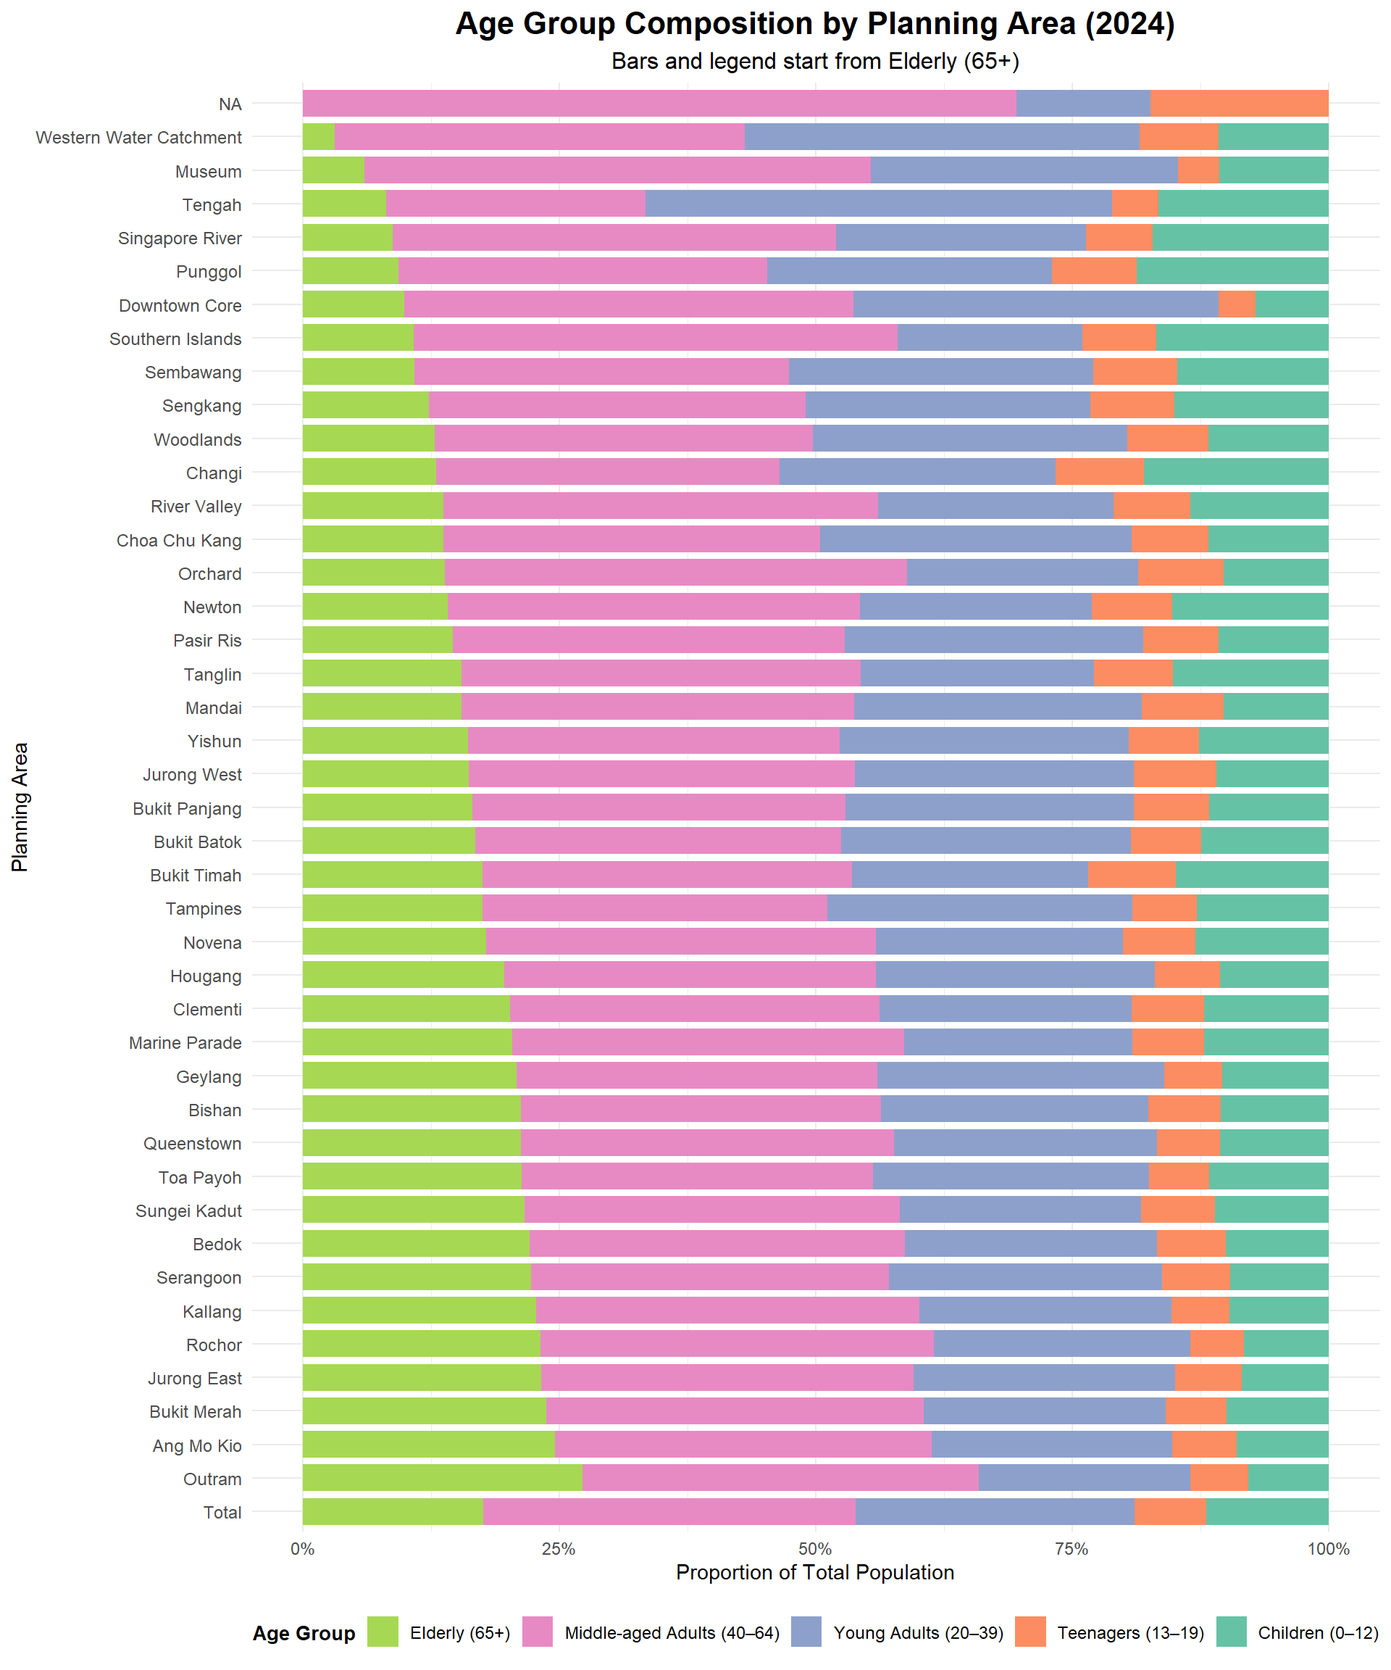
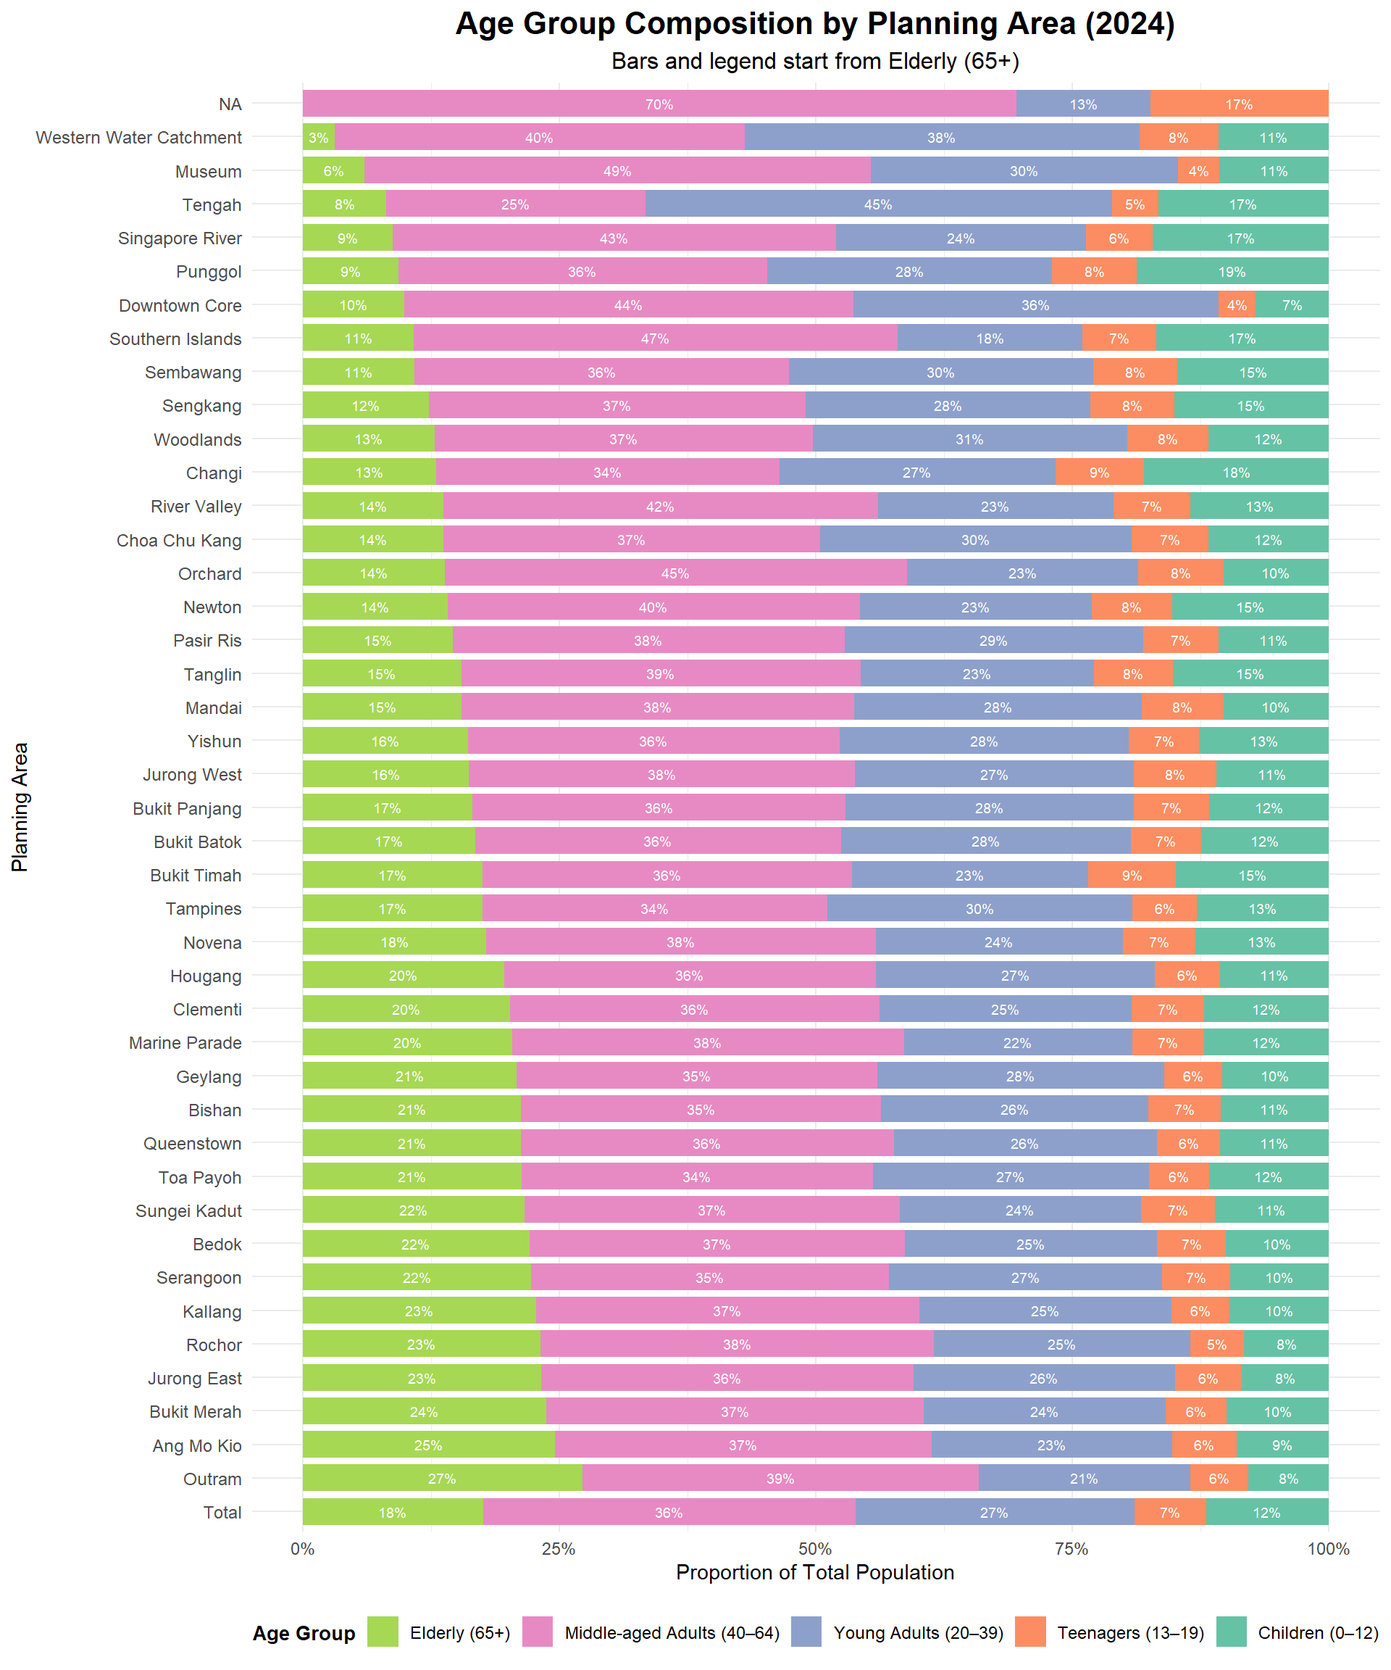
commit visability fix

diff --git a/_site/Take-Home_Ex/Take-Home_Ex01/Take-Home_Ex01.html b/_site/Take-Home_Ex/Take-Home_Ex01/Take-Home_Ex01.html
@@ -203,7 +203,7 @@ pre > code.sourceCode > span > a:first-child::before { text-decoration: underlin
   <ul class="collapse">
   <li><a href="#eda-2-insights" id="toc-eda-2-insights" class="nav-link" data-scroll-target="#eda-2-insights">EDA 2 Insights</a></li>
   </ul></li>
-  <li><a href="#eda-3-top-10-planning-areas-by-total-population-and-elderly-population-age-65" id="toc-eda-3-top-10-planning-areas-by-total-population-and-elderly-population-age-65" class="nav-link" data-scroll-target="#eda-3-top-10-planning-areas-by-total-population-and-elderly-population-age-65">EDA 3: Top 10 Planning Areas by Total Population and Elderly Population (Age 65+)</a>
+  <li><a href="#eda-3-age-group-composition-by-planning-area" id="toc-eda-3-age-group-composition-by-planning-area" class="nav-link" data-scroll-target="#eda-3-age-group-composition-by-planning-area">EDA 3 : Age Group Composition by Planning Area</a>
   <ul class="collapse">
   <li><a href="#eda-3-insights" id="toc-eda-3-insights" class="nav-link" data-scroll-target="#eda-3-insights">EDA 3 Insights</a></li>
   </ul></li>
@@ -486,8 +486,8 @@ Compared to the total population, the <strong>elderly population values are clos
 </ul>
 </section>
 </section>
-<section id="eda-3-top-10-planning-areas-by-total-population-and-elderly-population-age-65" class="level1">
-<h1>EDA 3: Top 10 Planning Areas by Total Population and Elderly Population (Age 65+)</h1>
+<section id="eda-3-age-group-composition-by-planning-area" class="level1">
+<h1>EDA 3 : Age Group Composition by Planning Area</h1>
 <div class="cell">
 <div class="sourceCode cell-code" id="cb5"><pre class="sourceCode r code-with-copy"><code class="sourceCode r"><span id="cb5-1"><a href="#cb5-1" aria-hidden="true" tabindex="-1"></a>age_levels <span class="ot">&lt;-</span> <span class="fu">c</span>(<span class="st">"Elderly (65+)"</span>, <span class="st">"Middle-aged Adults (40–64)"</span>,</span>
 <span id="cb5-2"><a href="#cb5-2" aria-hidden="true" tabindex="-1"></a>                <span class="st">"Young Adults (20–39)"</span>, <span class="st">"Teenagers (13–19)"</span>,</span>
@@ -515,48 +515,52 @@ Compared to the total population, the <strong>elderly population values are clos
 <span id="cb5-24"><a href="#cb5-24" aria-hidden="true" tabindex="-1"></a>  <span class="fu">summarise</span>(<span class="at">Population =</span> <span class="fu">sum</span>(Population), <span class="at">.groups =</span> <span class="st">"drop"</span>)</span>
 <span id="cb5-25"><a href="#cb5-25" aria-hidden="true" tabindex="-1"></a></span>
 <span id="cb5-26"><a href="#cb5-26" aria-hidden="true" tabindex="-1"></a>pop_percent <span class="ot">&lt;-</span> pop_grouped <span class="sc">%&gt;%</span></span>
-<span id="cb5-27"><a href="#cb5-27" aria-hidden="true" tabindex="-1"></a>  <span class="fu">group_by</span>(<span class="st">`</span><span class="at">Planning Area</span><span class="st">`</span>) <span class="sc">%&gt;%</span></span>
-<span id="cb5-28"><a href="#cb5-28" aria-hidden="true" tabindex="-1"></a>  <span class="fu">mutate</span>(<span class="at">Total =</span> <span class="fu">sum</span>(Population),</span>
-<span id="cb5-29"><a href="#cb5-29" aria-hidden="true" tabindex="-1"></a>         <span class="at">Share =</span> Population <span class="sc">/</span> Total) <span class="sc">%&gt;%</span></span>
-<span id="cb5-30"><a href="#cb5-30" aria-hidden="true" tabindex="-1"></a>  <span class="fu">ungroup</span>() <span class="sc">%&gt;%</span></span>
-<span id="cb5-31"><a href="#cb5-31" aria-hidden="true" tabindex="-1"></a>  <span class="fu">filter</span>(<span class="sc">!</span><span class="fu">is.na</span>(<span class="st">`</span><span class="at">Planning Area</span><span class="st">`</span>), <span class="st">`</span><span class="at">Planning Area</span><span class="st">`</span> <span class="sc">!=</span> <span class="st">"NA"</span>)</span>
-<span id="cb5-32"><a href="#cb5-32" aria-hidden="true" tabindex="-1"></a></span>
-<span id="cb5-33"><a href="#cb5-33" aria-hidden="true" tabindex="-1"></a>ordering <span class="ot">&lt;-</span> pop_percent <span class="sc">%&gt;%</span></span>
-<span id="cb5-34"><a href="#cb5-34" aria-hidden="true" tabindex="-1"></a>  <span class="fu">filter</span>(Age_Group <span class="sc">==</span> <span class="st">"Elderly (65+)"</span>, <span class="st">`</span><span class="at">Planning Area</span><span class="st">`</span> <span class="sc">!=</span> <span class="st">"Total"</span>) <span class="sc">%&gt;%</span></span>
-<span id="cb5-35"><a href="#cb5-35" aria-hidden="true" tabindex="-1"></a>  <span class="fu">arrange</span>(<span class="fu">desc</span>(Share)) <span class="sc">%&gt;%</span></span>
-<span id="cb5-36"><a href="#cb5-36" aria-hidden="true" tabindex="-1"></a>  <span class="fu">pull</span>(<span class="st">`</span><span class="at">Planning Area</span><span class="st">`</span>)</span>
-<span id="cb5-37"><a href="#cb5-37" aria-hidden="true" tabindex="-1"></a></span>
-<span id="cb5-38"><a href="#cb5-38" aria-hidden="true" tabindex="-1"></a>pop_percent<span class="sc">$</span><span class="st">`</span><span class="at">Planning Area</span><span class="st">`</span> <span class="ot">&lt;-</span> <span class="fu">factor</span>(</span>
-<span id="cb5-39"><a href="#cb5-39" aria-hidden="true" tabindex="-1"></a>  pop_percent<span class="sc">$</span><span class="st">`</span><span class="at">Planning Area</span><span class="st">`</span>,</span>
-<span id="cb5-40"><a href="#cb5-40" aria-hidden="true" tabindex="-1"></a>  <span class="at">levels =</span> <span class="fu">c</span>(<span class="st">"Total"</span>, ordering)</span>
-<span id="cb5-41"><a href="#cb5-41" aria-hidden="true" tabindex="-1"></a>)</span>
-<span id="cb5-42"><a href="#cb5-42" aria-hidden="true" tabindex="-1"></a></span>
-<span id="cb5-43"><a href="#cb5-43" aria-hidden="true" tabindex="-1"></a>pop_percent<span class="sc">$</span>Age_Group <span class="ot">&lt;-</span> <span class="fu">factor</span>(pop_percent<span class="sc">$</span>Age_Group, <span class="at">levels =</span> <span class="fu">rev</span>(age_levels))</span>
-<span id="cb5-44"><a href="#cb5-44" aria-hidden="true" tabindex="-1"></a></span>
-<span id="cb5-45"><a href="#cb5-45" aria-hidden="true" tabindex="-1"></a><span class="fu">ggplot</span>(pop_percent, <span class="fu">aes</span>(<span class="at">x =</span> <span class="st">`</span><span class="at">Planning Area</span><span class="st">`</span>, <span class="at">y =</span> Share, <span class="at">fill =</span> Age_Group)) <span class="sc">+</span></span>
-<span id="cb5-46"><a href="#cb5-46" aria-hidden="true" tabindex="-1"></a>  <span class="fu">geom_col</span>(<span class="at">width =</span> <span class="fl">0.8</span>) <span class="sc">+</span></span>
-<span id="cb5-47"><a href="#cb5-47" aria-hidden="true" tabindex="-1"></a>  <span class="fu">scale_y_continuous</span>(<span class="at">labels =</span> <span class="fu">percent_format</span>(<span class="at">accuracy =</span> <span class="dv">1</span>)) <span class="sc">+</span></span>
-<span id="cb5-48"><a href="#cb5-48" aria-hidden="true" tabindex="-1"></a>  <span class="fu">scale_fill_manual</span>(</span>
-<span id="cb5-49"><a href="#cb5-49" aria-hidden="true" tabindex="-1"></a>    <span class="at">values =</span>(age_colors),</span>
-<span id="cb5-50"><a href="#cb5-50" aria-hidden="true" tabindex="-1"></a>    <span class="at">breaks =</span> (age_levels)</span>
-<span id="cb5-51"><a href="#cb5-51" aria-hidden="true" tabindex="-1"></a>  ) <span class="sc">+</span></span>
-<span id="cb5-52"><a href="#cb5-52" aria-hidden="true" tabindex="-1"></a>  <span class="fu">coord_flip</span>() <span class="sc">+</span></span>
-<span id="cb5-53"><a href="#cb5-53" aria-hidden="true" tabindex="-1"></a>  <span class="fu">labs</span>(</span>
-<span id="cb5-54"><a href="#cb5-54" aria-hidden="true" tabindex="-1"></a>    <span class="at">title =</span> <span class="st">"Age Group Composition by Planning Area (2024)"</span>,</span>
-<span id="cb5-55"><a href="#cb5-55" aria-hidden="true" tabindex="-1"></a>    <span class="at">subtitle =</span> <span class="st">"Bars and legend start from Elderly (65+)"</span>,</span>
-<span id="cb5-56"><a href="#cb5-56" aria-hidden="true" tabindex="-1"></a>    <span class="at">x =</span> <span class="st">"Planning Area"</span>,</span>
-<span id="cb5-57"><a href="#cb5-57" aria-hidden="true" tabindex="-1"></a>    <span class="at">y =</span> <span class="st">"Proportion of Total Population"</span>,</span>
-<span id="cb5-58"><a href="#cb5-58" aria-hidden="true" tabindex="-1"></a>    <span class="at">fill =</span> <span class="st">"Age Group"</span></span>
-<span id="cb5-59"><a href="#cb5-59" aria-hidden="true" tabindex="-1"></a>  ) <span class="sc">+</span></span>
-<span id="cb5-60"><a href="#cb5-60" aria-hidden="true" tabindex="-1"></a>  <span class="fu">theme_minimal</span>(<span class="at">base_family =</span> <span class="st">"Helvetica"</span>) <span class="sc">+</span></span>
-<span id="cb5-61"><a href="#cb5-61" aria-hidden="true" tabindex="-1"></a>  <span class="fu">theme</span>(</span>
-<span id="cb5-62"><a href="#cb5-62" aria-hidden="true" tabindex="-1"></a>    <span class="at">plot.title =</span> <span class="fu">element_text</span>(<span class="at">face =</span> <span class="st">"bold"</span>, <span class="at">size =</span> <span class="dv">16</span>, <span class="at">hjust =</span> <span class="fl">0.5</span>),</span>
-<span id="cb5-63"><a href="#cb5-63" aria-hidden="true" tabindex="-1"></a>    <span class="at">plot.subtitle =</span> <span class="fu">element_text</span>(<span class="at">size =</span> <span class="dv">12</span>, <span class="at">hjust =</span> <span class="fl">0.5</span>),</span>
-<span id="cb5-64"><a href="#cb5-64" aria-hidden="true" tabindex="-1"></a>    <span class="at">legend.position =</span> <span class="st">"bottom"</span>,</span>
-<span id="cb5-65"><a href="#cb5-65" aria-hidden="true" tabindex="-1"></a>    <span class="at">legend.title =</span> <span class="fu">element_text</span>(<span class="at">size =</span> <span class="dv">10</span>, <span class="at">face =</span> <span class="st">"bold"</span>),</span>
-<span id="cb5-66"><a href="#cb5-66" aria-hidden="true" tabindex="-1"></a>    <span class="at">legend.text =</span> <span class="fu">element_text</span>(<span class="at">size =</span> <span class="dv">9</span>),</span>
-<span id="cb5-67"><a href="#cb5-67" aria-hidden="true" tabindex="-1"></a>    <span class="at">axis.text =</span> <span class="fu">element_text</span>(<span class="at">size =</span> <span class="dv">9</span>)</span>
-<span id="cb5-68"><a href="#cb5-68" aria-hidden="true" tabindex="-1"></a>  )</span></code><button title="Copy to Clipboard" class="code-copy-button"><i class="bi"></i></button></pre></div>
+<span id="cb5-27"><a href="#cb5-27" aria-hidden="true" tabindex="-1"></a>  <span class="fu">mutate</span>(<span class="st">`</span><span class="at">Planning Area</span><span class="st">`</span> <span class="ot">=</span> <span class="fu">trimws</span>(<span class="st">`</span><span class="at">Planning Area</span><span class="st">`</span>)) <span class="sc">%&gt;%</span></span>
+<span id="cb5-28"><a href="#cb5-28" aria-hidden="true" tabindex="-1"></a>  <span class="fu">filter</span>(<span class="sc">!</span><span class="fu">is.na</span>(<span class="st">`</span><span class="at">Planning Area</span><span class="st">`</span>), <span class="st">`</span><span class="at">Planning Area</span><span class="st">`</span> <span class="sc">!=</span> <span class="st">""</span>, <span class="fu">toupper</span>(<span class="st">`</span><span class="at">Planning Area</span><span class="st">`</span>) <span class="sc">!=</span> <span class="st">"NA"</span>) <span class="sc">%&gt;%</span></span>
+<span id="cb5-29"><a href="#cb5-29" aria-hidden="true" tabindex="-1"></a>  <span class="fu">group_by</span>(<span class="st">`</span><span class="at">Planning Area</span><span class="st">`</span>) <span class="sc">%&gt;%</span></span>
+<span id="cb5-30"><a href="#cb5-30" aria-hidden="true" tabindex="-1"></a>  <span class="fu">mutate</span>(<span class="at">Total =</span> <span class="fu">sum</span>(Population),</span>
+<span id="cb5-31"><a href="#cb5-31" aria-hidden="true" tabindex="-1"></a>         <span class="at">Share =</span> Population <span class="sc">/</span> Total) <span class="sc">%&gt;%</span></span>
+<span id="cb5-32"><a href="#cb5-32" aria-hidden="true" tabindex="-1"></a>  <span class="fu">ungroup</span>()</span>
+<span id="cb5-33"><a href="#cb5-33" aria-hidden="true" tabindex="-1"></a></span>
+<span id="cb5-34"><a href="#cb5-34" aria-hidden="true" tabindex="-1"></a>ordering <span class="ot">&lt;-</span> pop_percent <span class="sc">%&gt;%</span></span>
+<span id="cb5-35"><a href="#cb5-35" aria-hidden="true" tabindex="-1"></a>  <span class="fu">filter</span>(Age_Group <span class="sc">==</span> <span class="st">"Elderly (65+)"</span>, <span class="st">`</span><span class="at">Planning Area</span><span class="st">`</span> <span class="sc">!=</span> <span class="st">"Total"</span>) <span class="sc">%&gt;%</span></span>
+<span id="cb5-36"><a href="#cb5-36" aria-hidden="true" tabindex="-1"></a>  <span class="fu">arrange</span>(<span class="fu">desc</span>(Share)) <span class="sc">%&gt;%</span></span>
+<span id="cb5-37"><a href="#cb5-37" aria-hidden="true" tabindex="-1"></a>  <span class="fu">pull</span>(<span class="st">`</span><span class="at">Planning Area</span><span class="st">`</span>)</span>
+<span id="cb5-38"><a href="#cb5-38" aria-hidden="true" tabindex="-1"></a></span>
+<span id="cb5-39"><a href="#cb5-39" aria-hidden="true" tabindex="-1"></a>pop_percent<span class="sc">$</span><span class="st">`</span><span class="at">Planning Area</span><span class="st">`</span> <span class="ot">&lt;-</span> <span class="fu">factor</span>(</span>
+<span id="cb5-40"><a href="#cb5-40" aria-hidden="true" tabindex="-1"></a>  pop_percent<span class="sc">$</span><span class="st">`</span><span class="at">Planning Area</span><span class="st">`</span>,</span>
+<span id="cb5-41"><a href="#cb5-41" aria-hidden="true" tabindex="-1"></a>  <span class="at">levels =</span> <span class="fu">c</span>(<span class="st">"Total"</span>, ordering)</span>
+<span id="cb5-42"><a href="#cb5-42" aria-hidden="true" tabindex="-1"></a>)</span>
+<span id="cb5-43"><a href="#cb5-43" aria-hidden="true" tabindex="-1"></a></span>
+<span id="cb5-44"><a href="#cb5-44" aria-hidden="true" tabindex="-1"></a>pop_percent<span class="sc">$</span>Age_Group <span class="ot">&lt;-</span> <span class="fu">factor</span>(pop_percent<span class="sc">$</span>Age_Group, <span class="at">levels =</span> <span class="fu">rev</span>(age_levels))</span>
+<span id="cb5-45"><a href="#cb5-45" aria-hidden="true" tabindex="-1"></a></span>
+<span id="cb5-46"><a href="#cb5-46" aria-hidden="true" tabindex="-1"></a><span class="fu">ggplot</span>(pop_percent, <span class="fu">aes</span>(<span class="at">x =</span> <span class="st">`</span><span class="at">Planning Area</span><span class="st">`</span>, <span class="at">y =</span> Share, <span class="at">fill =</span> Age_Group)) <span class="sc">+</span></span>
+<span id="cb5-47"><a href="#cb5-47" aria-hidden="true" tabindex="-1"></a>  <span class="fu">geom_col</span>(<span class="at">width =</span> <span class="fl">0.8</span>) <span class="sc">+</span></span>
+<span id="cb5-48"><a href="#cb5-48" aria-hidden="true" tabindex="-1"></a>  <span class="fu">geom_text</span>(<span class="fu">aes</span>(<span class="at">label =</span> scales<span class="sc">::</span><span class="fu">percent</span>(Share, <span class="at">accuracy =</span> <span class="dv">1</span>)),</span>
+<span id="cb5-49"><a href="#cb5-49" aria-hidden="true" tabindex="-1"></a>            <span class="at">position =</span> <span class="fu">position_stack</span>(<span class="at">vjust =</span> <span class="fl">0.5</span>),</span>
+<span id="cb5-50"><a href="#cb5-50" aria-hidden="true" tabindex="-1"></a>            <span class="at">size =</span> <span class="fl">2.5</span>, <span class="at">color =</span> <span class="st">"white"</span>) <span class="sc">+</span></span>
+<span id="cb5-51"><a href="#cb5-51" aria-hidden="true" tabindex="-1"></a>  <span class="fu">scale_y_continuous</span>(<span class="at">labels =</span> <span class="fu">percent_format</span>(<span class="at">accuracy =</span> <span class="dv">1</span>)) <span class="sc">+</span></span>
+<span id="cb5-52"><a href="#cb5-52" aria-hidden="true" tabindex="-1"></a>  <span class="fu">scale_fill_manual</span>(</span>
+<span id="cb5-53"><a href="#cb5-53" aria-hidden="true" tabindex="-1"></a>    <span class="at">values =</span> age_colors,</span>
+<span id="cb5-54"><a href="#cb5-54" aria-hidden="true" tabindex="-1"></a>    <span class="at">breaks =</span> age_levels</span>
+<span id="cb5-55"><a href="#cb5-55" aria-hidden="true" tabindex="-1"></a>  ) <span class="sc">+</span></span>
+<span id="cb5-56"><a href="#cb5-56" aria-hidden="true" tabindex="-1"></a>  <span class="fu">coord_flip</span>() <span class="sc">+</span></span>
+<span id="cb5-57"><a href="#cb5-57" aria-hidden="true" tabindex="-1"></a>  <span class="fu">labs</span>(</span>
+<span id="cb5-58"><a href="#cb5-58" aria-hidden="true" tabindex="-1"></a>    <span class="at">title =</span> <span class="st">"Age Group Composition by Planning Area (2024)"</span>,</span>
+<span id="cb5-59"><a href="#cb5-59" aria-hidden="true" tabindex="-1"></a>    <span class="at">subtitle =</span> <span class="st">"Bars and legend start from Elderly (65+)"</span>,</span>
+<span id="cb5-60"><a href="#cb5-60" aria-hidden="true" tabindex="-1"></a>    <span class="at">x =</span> <span class="st">"Planning Area"</span>,</span>
+<span id="cb5-61"><a href="#cb5-61" aria-hidden="true" tabindex="-1"></a>    <span class="at">y =</span> <span class="st">"Proportion of Total Population"</span>,</span>
+<span id="cb5-62"><a href="#cb5-62" aria-hidden="true" tabindex="-1"></a>    <span class="at">fill =</span> <span class="st">"Age Group"</span></span>
+<span id="cb5-63"><a href="#cb5-63" aria-hidden="true" tabindex="-1"></a>  ) <span class="sc">+</span></span>
+<span id="cb5-64"><a href="#cb5-64" aria-hidden="true" tabindex="-1"></a>  <span class="fu">theme_minimal</span>(<span class="at">base_family =</span> <span class="st">"Helvetica"</span>) <span class="sc">+</span></span>
+<span id="cb5-65"><a href="#cb5-65" aria-hidden="true" tabindex="-1"></a>  <span class="fu">theme</span>(</span>
+<span id="cb5-66"><a href="#cb5-66" aria-hidden="true" tabindex="-1"></a>    <span class="at">plot.title =</span> <span class="fu">element_text</span>(<span class="at">face =</span> <span class="st">"bold"</span>, <span class="at">size =</span> <span class="dv">16</span>, <span class="at">hjust =</span> <span class="fl">0.5</span>),</span>
+<span id="cb5-67"><a href="#cb5-67" aria-hidden="true" tabindex="-1"></a>    <span class="at">plot.subtitle =</span> <span class="fu">element_text</span>(<span class="at">size =</span> <span class="dv">12</span>, <span class="at">hjust =</span> <span class="fl">0.5</span>),</span>
+<span id="cb5-68"><a href="#cb5-68" aria-hidden="true" tabindex="-1"></a>    <span class="at">legend.position =</span> <span class="st">"bottom"</span>,</span>
+<span id="cb5-69"><a href="#cb5-69" aria-hidden="true" tabindex="-1"></a>    <span class="at">legend.title =</span> <span class="fu">element_text</span>(<span class="at">size =</span> <span class="dv">10</span>, <span class="at">face =</span> <span class="st">"bold"</span>),</span>
+<span id="cb5-70"><a href="#cb5-70" aria-hidden="true" tabindex="-1"></a>    <span class="at">legend.text =</span> <span class="fu">element_text</span>(<span class="at">size =</span> <span class="dv">9</span>),</span>
+<span id="cb5-71"><a href="#cb5-71" aria-hidden="true" tabindex="-1"></a>    <span class="at">axis.text =</span> <span class="fu">element_text</span>(<span class="at">size =</span> <span class="dv">9</span>)</span>
+<span id="cb5-72"><a href="#cb5-72" aria-hidden="true" tabindex="-1"></a>  )</span></code><button title="Copy to Clipboard" class="code-copy-button"><i class="bi"></i></button></pre></div>
 <div class="cell-output-display">
 <p><img src="Take-Home_Ex01_files/figure-html/unnamed-chunk-5-1.png" class="img-fluid" width="960"></p>
 </div>
